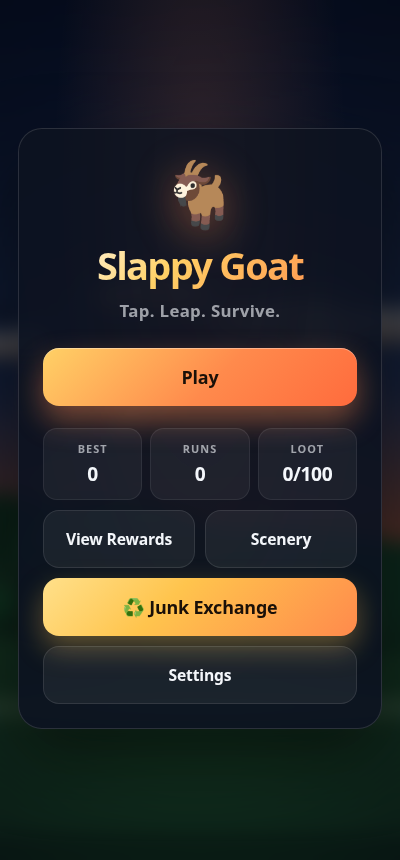
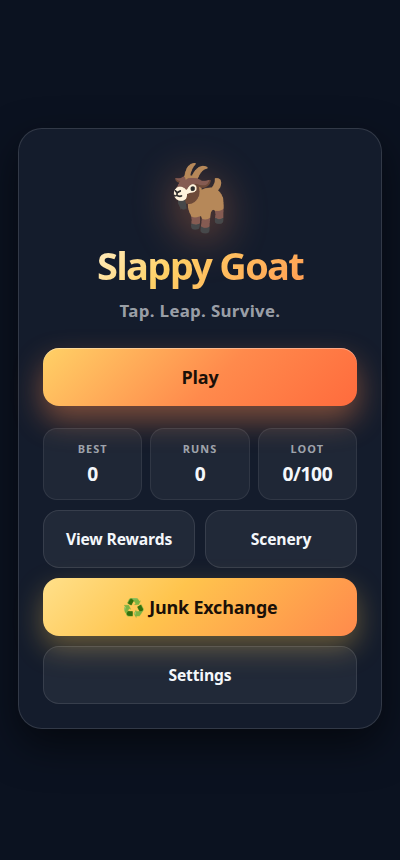
Fix documentation screenshots: remove overlay ghosting
Recapture README images with solid docs-mode UI (no translucent
backdrop blur), so GitHub screenshots stay crisp and single-layer.

diff --git a/www/main.js b/www/main.js
@@ -4974,9 +4974,17 @@ goMenu();
 frame();
 
 // Optional deep-link for docs/automation: ?screen=menu|rewards|trade|scenery|play
+// Add &docs=1 for solid opaque UI (clean screenshots without blur ghosting)
 (() => {
   try {
-    const screen = new URLSearchParams(location.search).get('screen');
+    const params = new URLSearchParams(location.search);
+    const docs = params.get('docs') === '1';
+    const screen = params.get('screen') || 'menu';
+    if (docs) {
+      document.body.classList.add('docs-capture');
+      if (screen === 'play') document.body.classList.add('docs-play');
+      else document.body.classList.add('docs-ui');
+    }
     if (!screen || screen === 'menu') return;
     setTimeout(() => {
       if (screen === 'rewards') openRewardsScreen('menu');
@@ -4989,8 +4997,11 @@ frame();
         show(sceneryScreen);
       } else if (screen === 'play') {
         startGame();
+        // Let a frame or two render; hide tutorial chrome for a clean shot
+        hide(tutorialEl);
+        hide(readyHint);
       }
-    }, 400);
+    }, docs ? 800 : 400);
   } catch {
     /* ignore */
   }

diff --git a/www/style.css b/www/style.css
@@ -429,6 +429,36 @@ body {
   display: none !important;
 }
 
+/* Clean screenshots: solid covers, no blur/fade ghosting in headless Chrome */
+body.docs-capture .overlay {
+  background: #0b1220;
+  backdrop-filter: none;
+  -webkit-backdrop-filter: none;
+  animation: none;
+}
+body.docs-capture .panel {
+  background: #141c2c;
+  backdrop-filter: none;
+  -webkit-backdrop-filter: none;
+  animation: none;
+  box-shadow: 0 16px 40px rgba(0, 0, 0, 0.55);
+}
+body.docs-capture #vignette,
+body.docs-capture #edge-glow,
+body.docs-capture #flash,
+body.docs-capture #confetti,
+body.docs-capture #toast,
+body.docs-capture #tutorial {
+  display: none !important;
+}
+/* Hide 3D canvas under menu screens so UI is crisp */
+body.docs-capture.docs-ui #game-canvas {
+  visibility: hidden;
+}
+body.docs-capture.docs-play .overlay {
+  display: none !important;
+}
+
 .panel {
   width: min(380px, 100%);
   padding: 32px 24px 24px;
